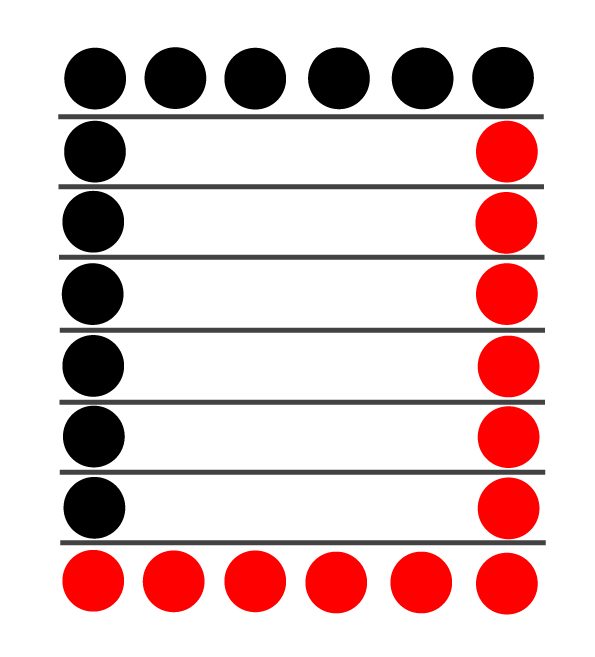
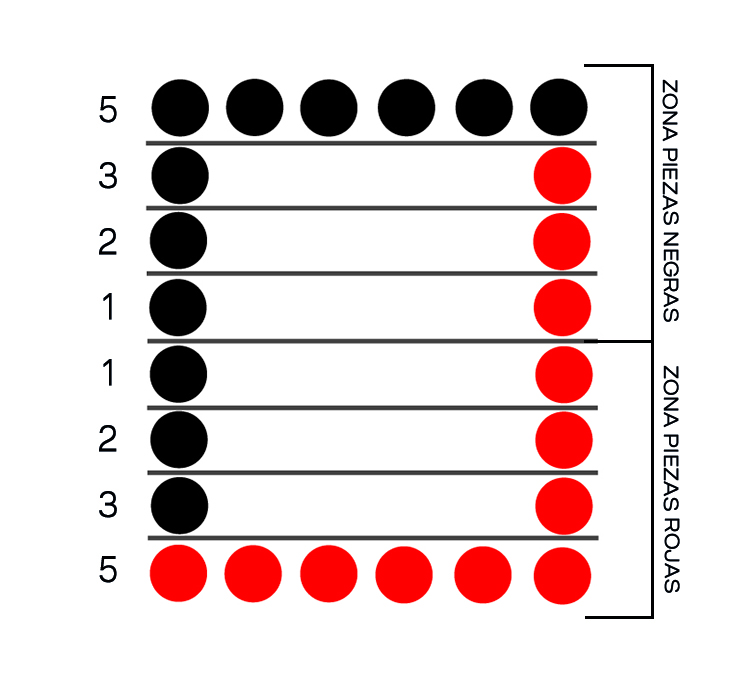
update readme

diff --git a/ControladorMP.py b/ControladorMP.py
@@ -406,6 +406,10 @@ class controlador:
                 value = self.MIN(new_tablero, num_movs_2, tipo + 1, depth, alpha, beta)
                 puntuaciones.append(value)
                 last_row = i[0]
+                if value <= beta:
+                    beta = value
+                if alpha >= beta:
+                    break
             if len(puntuaciones) == 0:
                 return 999
             return min(puntuaciones)
@@ -457,6 +461,10 @@ class controlador:
                 movs.append(value[1])
                 puntuaciones.append(value[0])
                 last_row = i[0]
+                if value[0] > alpha:
+                    alpha = value[0]
+                if alpha >= beta:
+                    break
             if len(puntuaciones) == 0:
                 return (-999,[])
             index_max = puntuaciones.index(max(puntuaciones))

diff --git a/README.md b/README.md
@@ -2,27 +2,55 @@
 Linja programado en Python. Linja es un juego de mesa de tipo adversario, donde un jugador juega contra otro.
 
 
-## COMO JUGAR
-El tablero del linja está formado por 8 filas y 6 columnas. La distribución inicial del tablero es la siguiente:<br>
+## COMO JUGAR :question:
+El tablero del linja está formado por 8 filas y 6 columnas. La distribución inicial del tablero es la siguiente:
+<br>
 <img src="./images/tablero.jpg" alt="tablero" width="300" height="auto" >
-
+<br>
 Al igual que en cualquier juego de tipo adversario, los jugadores irán intercambiadnose el turno de forma secuencial. Cualquiera de los dos jugadores podrá comenzar la partida.
 
-Cada turno está compuesto de 2 movimientos a excepción de algún caso que se explicará más adelante. En el primer movimiento, el jugador podrá desplazar cualquiera de sus fichas una posición hacia adelante, salvo que la fila que viene a continuación esté bloqueada por haber ya 6 fichas. En cualquier otro caso, tras haber realizado el primero movimiento, el jugador dispondrá de un segundo movimiento en el cual podrá desplazar una de sus piezas tantas posiciones como piezas hubiese en la fila a la que movió antes de iniciar el primer movimiento. Pongamos el siguiente ejemplo donde el jugador rojo avanza una de sus piezas una posición hacia delante.<br>
+Cada turno está compuesto de 2 movimientos a excepción de algún caso que se explicará más adelante. En el primer movimiento, el jugador podrá desplazar cualquiera de sus fichas una posición hacia adelante, salvo que la fila que viene a continuación esté bloqueada por haber ya 6 fichas. En cualquier otro caso, tras haber realizado el primero movimiento, el jugador dispondrá de un segundo movimiento en el cual podrá desplazar una de sus piezas tantas posiciones como piezas hubiese en la fila a la que movió antes de iniciar el primer movimiento. Pongamos el siguiente ejemplo donde el jugador rojo avanza una de sus piezas una posición hacia delante.
+<br>
 <img src="./images/movimiento1.png" alt="tablero" width="500" height="auto" >
-En este caso, el jugador rojo podría avanzar un total de 2 posiciones en su segundo movimiento
+<br>
+En este caso, el jugador rojo podrá avanzar un total de 2 posiciones en su segundo movimiento
+
+## :dart:SISTEMA DE PUNTUACIÓN
+Como se ha visto en la primera imagen, el tablero está formado por 8 filas y está dividido en 2 zonas. Una de ellas es la zona de las piezas rojas, y otra es la zona de las piezas negras.
+
+Cada fila tiene una puntuación determinada, siendo de forma simétrica para ambas partes del tablero. Para que una pieza del color negro puntúe, tiene que cruzar el centro del tablero y entrar en la zona de las piezas rojas, y viceversa.
 
 
-## REGLAS/EXCEPCIONES
+## :straight_ruler:REGLAS/EXCEPCIONES:exclamation:
 Este juego ha sufrido de bastantes cambios en las reglas de juego desde su creación. Sin embargo, esta versión del linja incluse las siguientes reglas o excepciones.
--Si en el primer movimiento el jugador mueve su pieza a una fila vacía, este jugador no tendrá derecho a realizar un segundo movimiento, y por tanto su turno habrá finalizado.
-## :triangular_ruler: ALGORITHMS USED
-For the development of the AI used in this game, two algorithms were used. **MiniMax** and **Alpha Beta**. Both will be explained:
+- Si en el primer movimiento el jugador mueve su pieza a una fila vacía, este jugador no tendrá derecho a realizar un segundo movimiento, y por tanto su turno habrá finalizado.
+- Si en su segundo movimiento el jugador mueve una de sus piezas a una fila vacía, este será recompensado con un turno extra. Estas jugadas no son acumulables, dando lugar a un máximo de 4 movimientos por turno.
+- Si un jugador desplaza en su primer movimiento una de sus piezas al extremo rival, solo podrá avanzar una fila en su siguiente movimiento.
+- Anteriormente se ha mencionado que solo puede haber un máximo de 6 fichas en cada fila. Sin embargo esta regla no se cumple para ambos exremos, donde el número de piezas es ilimitado.
+- Si un jugador se queda queda sin posibles movimientos dado un número de avances, el jugador habrá perdido la partida (ej. Al jugador le toca mover 4 posiciones hacia delante, pero ninguna de sus fichas puede avanzar tanto ya que se saldrían del tablero).
+
+## :triangular_ruler: ALGORITMOS USADOS
+Para el funcionamiento de la IA se han usado dos algoritmos muy populares en los juegos de tipo adversario. Estos son **Minimax** y **Alpha/Beta**.
+
 ### :small_red_triangle::small_red_triangle_down: MINIMAX
-Minimax is a very common algorithm used for adversary games where both players play against each other. It consists of two parts.
-The first one is the *maximize* part, which consist in selecting the tree branch that gives the best score to the AI. On the other hand, the *minimize* part consist in choosing the branch that gives the enemy player the best score. Both selections are done based in an heuristic function.
+Minimaxes un algoritmo muy usado en los juegos de adversario, el cual consiste en maximizar la puntuación del jugador, y minimizar la del oponente. En otras palabras, durante la exploración de las posibles jugadas se calcularán los mejores movimientos de ambos jugadores.
 
-#### :1234: HEURISTIC FUNCTION
-In order to be able to evaluate if a move is good or not for one of the players, we need to evaluate the board state. In the case of Linja, we 
+Para esto, tendremos lo que se conoce como un *arbol de exploración*. Este está compuesto por diferentes nodos de tipo **MIN** o **MAX**.
+<br>
+<img src="./images/MINIMAX.png" align="center">
+<br>
+En la frontera de exploración, que se dará a una profundidad determinada por el usuario, se nos devolverá el valor de la función heurística de esa rama. Este valor irá subiendo por los nodos, tal y como se ve en la imagen.
 
-### :scissors: ALPHA BETA PRUNNING
+#### :1234: FUNCION HEURÍSTICA
+Para poder evaluar si una jugada es buena o mala, necesitamos puntuar cada una de estas de alguna forma. Para esto tenemos la función heurística, la cual nos va a dar una puntuación concreta en función del estado del tablero y la disposición de las piezas en este.
+
+Para este caso, la función heurística elegida es la siguiente:
+$PtsJ1 - PtsJ2$
+Se restarán a puntos del jugador 1, que en este caso corresponden a los puntos del jugador que maneja la IA, los puntos del contrincante, el jugador 2.
+
+### :scissors:PODA ALPHA BETA 
+Este algoritmo surgió con la idea de resolver el gran problema que tiene MiniMax, que no es otro que el hecho de que el número de ramas crece exponencialmente conforme la profundidad aumenta, es decir, cuantas más jugadas se exploran.
+
+Para la ejecución de este algoritmo, jugaremos con dos variables que llamaremos **Alpha** y **Beta**. Estas tomarán el valor inicial de $-\infty$ y $\infty$ respectivamente. Alpha representa el valor máximo obtenido hasta el momento en los nodos MAX, mientras que beta representa el valor más bajo obtenido en los nodos MIN.
+
+Durante la exploración se van actualizando estos valores según sea correspondiente. Luego dentro de cada nodo, se realiza la comparación de si $\alpha\geq\beta$. Si esta comparación se cumple, podemos decir que no tiene sentido seguir explorando el resto de ramas de ese subarbol puesto que nunca van a conseguir superar la puntuación obtenida en ese momento.
